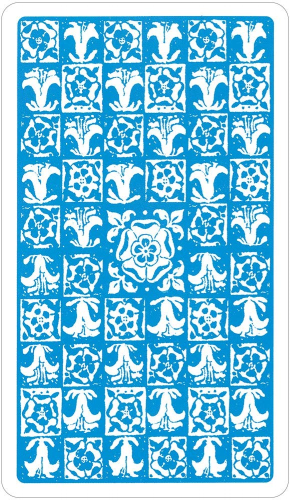
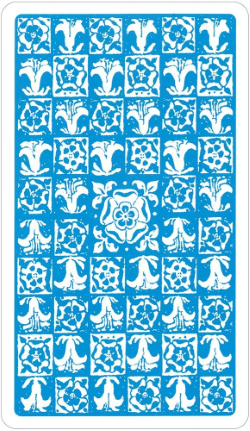
tarot-back

diff --git a/readingreal.js b/readingreal.js
@@ -141,7 +141,7 @@ function generateRandomCards() {
         imgElement.alt = `Tarot Card ${index + 1}`;
 
         imgElement.style.width = "250px";
-        imgElement.style.height = "400px";
+        imgElement.style.height = "431px";
         imgElement.style.objectFit = "cover";
 
         const cardMeaning = document.getElementById(`card${index + 1}-meaning`);
